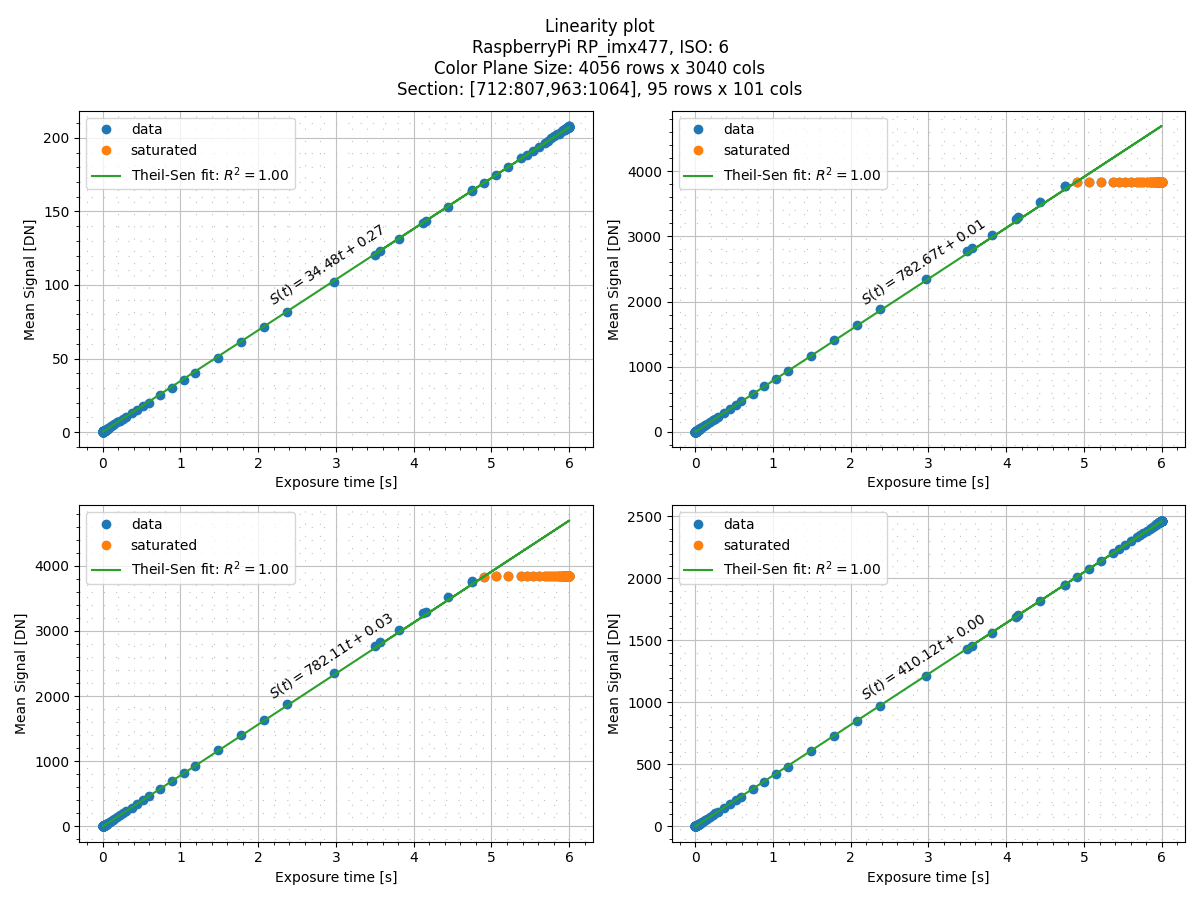
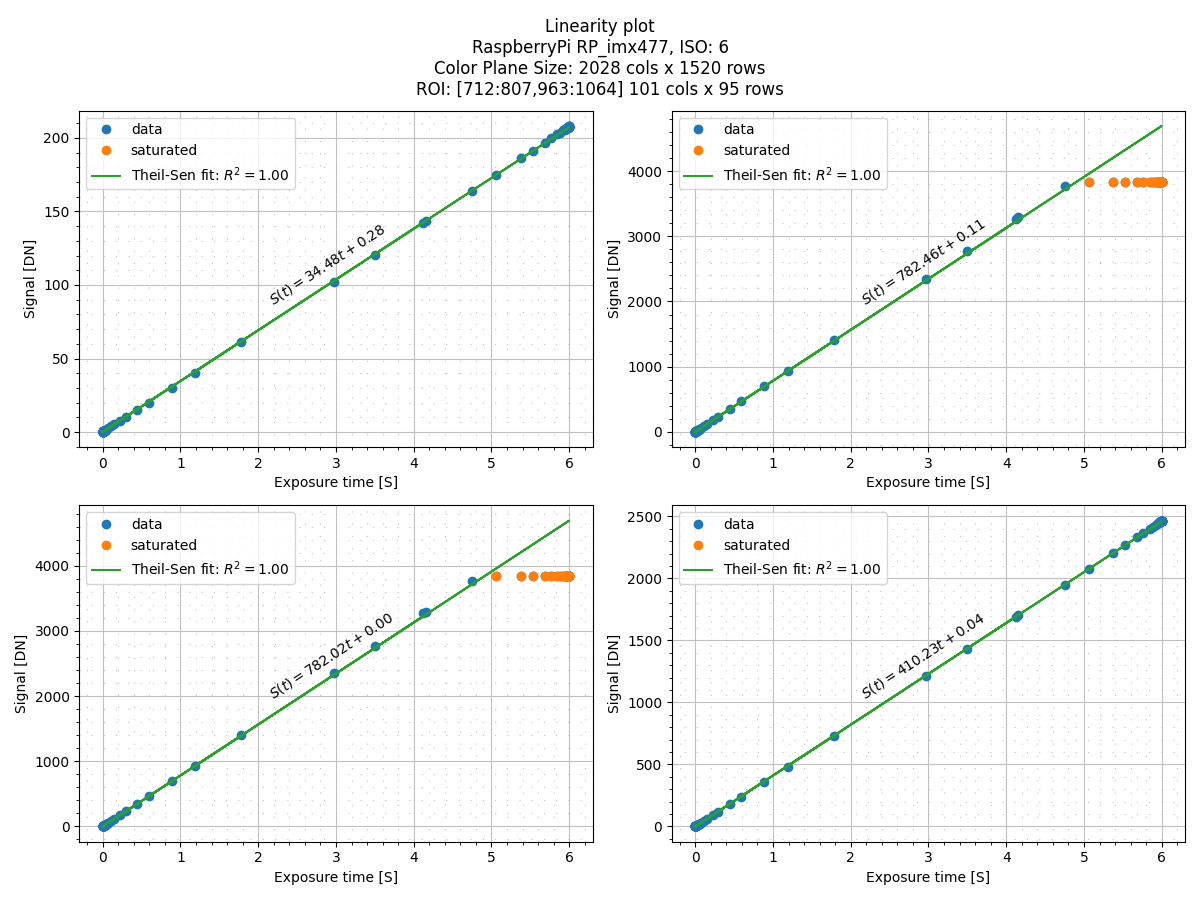
fixed linearity command

diff --git a/src/rawplot/linearity.py b/src/rawplot/linearity.py
@@ -28,15 +28,18 @@ from sklearn.linear_model import  TheilSenRegressor, LinearRegression
 
 from lica.cli import execute
 from lica.misc import file_paths
-from lica.validators import vdir, vfloat01, valid_channels
+from lica.validators import vdir, vfile, vfloat, vfloat01, valid_channels
 from lica.raw.loader import ImageLoaderFactory, SimulatedDarkImage, NormRoi
+from lica.raw.analyzer.image import ImageStatistics
 
 # ------------------------
 # Own modules and packages
 # ------------------------
 
 from ._version import __version__
-from .util.mpl.plot import plot_layout, axes_reshape, plot_linear_equation
+from .util.mpl.plot import mpl_main_plot_loop
+from .util.common import common_list_info, bias_from, make_plot_title_from
+
 # ----------------
 # Module constants
 # ----------------
@@ -59,40 +62,8 @@ def fit_estimator(estimator, exptime, signal, channel):
     predicted = estimator.predict(T)
     return score, estimator.coef_[0], estimator.intercept_
 
-
-# For single image in all channels at once
-# retuns 1D arrays, one row for each color channel
-def compute_signal_noise(image):
-    channels = image.channels()
-    section = image.load().astype(np.float32, copy=False) - np.array(image.black_levels()).reshape(len(channels), 1, 1)
-    exptime = image.exposure()
-    exptime = np.array([exptime for ch in channels])
-    signal = np.mean(section, axis=(1,2))
-    noise = np.std(section, axis=(1,2))
-    log.info("Image: %s signal: %s, exptime: %s", image.name(), signal, exptime)
-    return exptime, signal, noise
-
-# For an image list
-# returns 2D arrays [channel, datapoints ifor each channel]
-def compute_signal_noise_for(file_list, n_roi, channels):
-    signal_list = list()
-    noise_list = list()
-    exp_list =list()
-    factory =  ImageLoaderFactory()
-    for path in file_list:
-        image = factory.image_from(path, n_roi, channels) 
-        exptime, signal, noise = compute_signal_noise(image)
-        signal_list.append(signal)
-        noise_list.append(noise)
-        exp_list.append(exptime)
-    noise = np.array(noise_list).transpose()
-    signal = np.array(signal_list).transpose()
-    exptime = np.array(exp_list).transpose()
-    return exptime, signal, noise
-
-
 # The saturation analysis is made on the assupotion that the measured noise
-# should be dominated by shot noise, whose sdtdev = sqrt(signal)
+# should be dominated by shot noise (ignoring FPN here ...mmm),
 # So we compute the threshold noise / sqrt(signal)
 # and discard values below a certain threshold (0.5 seems a reasonable compromise)
 def saturation_analysis(exptime, signal, noise, channels, threshold=0.5):
@@ -130,7 +101,46 @@ def saturation_analysis(exptime, signal, noise, channels, threshold=0.5):
     return good_exptime_list, good_signal_list, sat_exptime_list, sat_signal_list
 
 
-def plot_linearity(axes, exptime, signal, good_exptime, good_signal, sat_exptime, sat_signal, channel):
+def signal_exptime_and_total_noise_from(file_list, n_roi, channels, bias, every=2):
+    file_list = file_list[::every]
+    signal_list = list()
+    noise_list = list()
+    exptime_list = list()
+    for path in file_list:
+        analyzer = ImageStatistics(path, n_roi, channels, bias)
+        analyzer.run()
+        signal = analyzer.mean()
+        signal_list.append(signal)
+        exptime = np.full_like(signal, analyzer.loader().exposure())
+        exptime_list.append(exptime)
+        noise = analyzer.std()
+        noise_list.append(noise)
+        log.info("\u03C3\u00b2(total) for image %s = %s", analyzer.name(), noise)
+    return np.stack(exptime_list, axis=-1), np.stack(signal_list, axis=-1), np.stack(noise_list, axis=-1)
+
+
+def plot_linear_equation(axes, xdata, ydata, slope, intercept, xlabel='x', ylabel='y'):
+    angle = math.atan(slope)*(180/math.pi)
+    x0 = np.min(xdata); x1 = np.max(xdata)
+    y0 = np.min(ydata); y1 = np.max(ydata)
+    x = x0 + 0.35*(x1-x0)
+    y = y0 + 0.45*(y1-y0)
+    text = f"${ylabel} = {slope:.2f}{xlabel}{intercept:+.2f}$"
+    axes.text(x, y, text,
+        rotation_mode='anchor',
+        rotation=angle,
+        transform_rotates_text=True,
+        ha='left', va='top'
+    )
+
+
+def plot_linearity(axes, i, channel, xlabel, ylabel, x,  **kargs):
+    exptime = x[i]
+    signal = kargs['signal'][i]
+    good_exptime = kargs['good_exptime'][i]
+    good_signal = kargs['good_signal'][i]
+    sat_exptime = kargs['sat_exptime'][i]
+    sat_signal = kargs['sat_signal'][i]
     estimator = TheilSenRegressor(random_state=42,  fit_intercept=True)
     score, slope, intercept = fit_estimator(estimator, good_exptime, good_signal, channel)
     fit_signal = estimator.predict(exptime.reshape(-1,1)) # For the whole range
@@ -139,8 +149,8 @@ def plot_linearity(axes, exptime, signal, good_exptime, good_signal, sat_exptime
     axes.plot(sat_exptime, sat_signal,  marker='o', linewidth=0, label="saturated")
     axes.plot(exptime, fit_signal, label=text)
     plot_linear_equation(axes, exptime, fit_signal, slope, intercept, xlabel='t', ylabel='S(t)')
-    axes.set_xlabel('Exposure time [s]')
-    axes.set_ylabel('Mean Signal [DN]')
+    axes.set_xlabel(xlabel)
+    axes.set_ylabel(ylabel)
     axes.grid(True,  which='major', color='silver', linestyle='solid')
     axes.grid(True,  which='minor', color='silver', linestyle=(0, (1, 10)))
     axes.minorticks_on()
@@ -150,36 +160,30 @@ def plot_linearity(axes, exptime, signal, good_exptime, good_signal, sat_exptime
 # AUXILIARY MAIN FUNCTION
 # -----------------------
 
-def linearity(args):
-    channels = valid_channels(args.channels)
-    log.info("Working with %d channels: %s", len(channels), channels)
-    n_roi = NormRoi(args.x0, args.y0, args.width, args.height)
-    log.info("Normalized ROI is %s", n_roi)
-    # Take the A files only by decimating by a  user specified 'every' factor
-    file_list = sorted(file_paths(args.input_dir, args.image_filter))[::args.every]
-    factory =  ImageLoaderFactory()
-    image0 = factory.image_from(file_list[0], n_roi, channels)
-    roi = image0.roi()
-    metadata = image0.metadata()      
-    exptime, signal, noise = compute_signal_noise_for(file_list, n_roi,  channels)
-    log.info("estimated signal & noise for %d points", exptime.shape[1])
-    good_exptime, good_signal, sat_exptime, sat_signal = saturation_analysis(exptime, signal, noise, channels, 0.5)
-    display_rows, display_cols = plot_layout(channels)
-    fig, axes = plt.subplots(nrows=display_rows, ncols=display_cols, figsize=(12, 9), layout='tight')
-    fig.suptitle(f"Linearity plot\n"
-            f"{metadata['maker']} {metadata['camera']}, ISO: {metadata['iso']}\n"
-            f"Color Plane Size: {metadata['width']} cols x {metadata['height']} rows\n"
-            f"ROI: {roi} {roi.width()} cols x {roi.height()} rows")
-    axes = axes_reshape(axes, channels)
-    for row in range(0,display_rows):
-        for col in range(0,display_cols):
-            i = 2*row+col
-            if len(channels) == 3 and row == 1 and col == 1: # Skip the empty slot in 2x2 layout with 3 items
-                axes[row][col].set_axis_off()
-                break
-            plot_linearity(axes[row][col], exptime[i], signal[i], good_exptime[i], good_signal[i], sat_exptime[i], sat_signal[i], channels[i])
-    plt.show()
 
+def linearity(args):
+    log.info(" === LINEARITY PLOT === ")
+    file_list, roi, n_roi, channels, metadata = common_list_info(args)
+    bias = bias_from(args)
+    exptime, signal, noise = signal_exptime_and_total_noise_from(file_list, n_roi, channels, bias)
+    log.info("estimated signal & noise for %s points", exptime.shape)
+    good_exptime, good_signal, sat_exptime, sat_signal = saturation_analysis(exptime, signal, noise, channels, 0.5)
+    title = make_plot_title_from("Linearity plot",metadata, roi)
+    mpl_main_plot_loop(
+        title    = title,
+        figsize  = (12, 9),
+        channels = channels,
+        plot_func = plot_linearity,
+        xlabel = "Exposure time [S]",
+        ylabel = "Signal [DN]",
+        x     = exptime,
+        # Optional arguments tpo be handled by the plotting function
+        signal = signal,
+        good_exptime = good_exptime,
+        good_signal  = good_signal,
+        sat_exptime  = sat_exptime,
+        sat_signal   = sat_signal
+    )
 
 # ===================================
 # MAIN ENTRY POINT SPECIFIC ARGUMENTS
@@ -196,6 +200,10 @@ def add_args(parser):
                     choices=('R', 'Gr', 'Gb', 'G', 'B'),
                     help='color plane to plot. G is the average of G1 & G2. (default: %(default)s)')
     parser.add_argument('--every', type=int, metavar='<N>', default=1, help='pick every n `file after sorting')
+    group0 = parser.add_mutually_exclusive_group(required=False)
+    group0.add_argument('-bl', '--bias-level', type=vfloat, default=None, help='Bias level, common for all channels (default: %(default)s)')
+    group0.add_argument('-bf', '--bias-file',  type=vfile, default=None, help='Bias image (3D FITS cube) (default: %(default)s)')
+
 
 # ================
 # MAIN ENTRY POINT
@@ -207,4 +215,4 @@ def main():
         name=__name__, 
         version=__version__,
         description="Plot sensor exposure linearity per channel"
-        )
+    )

diff --git a/src/rawplot/image.py b/src/rawplot/image.py
@@ -47,27 +47,20 @@ log = logging.getLogger(__name__)
 
 
 def plot_histo(axes, i, channel, xlabel, ylabel, x, *args, **kwargs):
-    title_list = list()
-    title_list.append( f"{channel}:")
-    decimate = 10
-    for key, val in kwargs.items():
-        if key == 'median':
-            title_list.append(f'median={val[i]:.2f}')
-            axes.axvline(x=val[i], linestyle='--', color='k', label="median")
-        elif key == 'mean':
-            title_list.append(fr'$\mu={val[i]:.2f}$')
-            axes.axvline(x=val[i], linestyle='--', color='r', label="mean")
-        elif key == 'stddev':
-             title_list.append(fr'$\sigma={val[i]:.2f}$')
-        elif key == 'decimate':
-            decimate = val
-    title = " ".join(title_list)
+    median = kwargs['median'][i]
+    mean = kwargs['mean'][i]
+    stddev = kwargs['stddev'][i]
+    decimate = kwargs.get('decimate', 10)
+    ylog = kwargs.get('ylog', False)
+    title = fr'{channel}: median={median:.2f}, $\mu={mean:.2f}, \sigma={stddev:.2f}$'
     axes.set_title(title)
     data = x.reshape(-1)[::decimate]
     if data.dtype  in (np.uint16, np.uint32,):
         bins=list(range(data.min(), data.max()+1))
     else:
         bins='auto'
+    if ylog:
+        axes.set_yscale('log', base=10)
     axes.hist(data, bins=bins, rwidth=0.9, align='left', label='hist')
     axes.set_xlabel(xlabel)
     axes.set_ylabel(ylabel)
@@ -79,16 +72,10 @@ def plot_histo(axes, i, channel, xlabel, ylabel, x, *args, **kwargs):
 
 
 def plot_image(axes, i, channel, roi, colormap, edgecolor, pixels, *args, **kwargs):
-    title_list = list()
-    title_list.append( f"{channel}:")
-    for key, val in kwargs.items():
-        if key == 'median':
-            title_list.append(f'median={val[i]:.2f}')
-        elif key == 'mean':
-            title_list.append(fr'$\mu={val[i]:.2f}$')
-        elif key == 'stddev':
-             title_list.append(fr'$\sigma={val[i]:.2f}$')
-    title = " ".join(title_list)
+    median = kwargs['median'][i]
+    mean = kwargs['mean'][i]
+    stddev = kwargs['stddev'][i]
+    title = fr'{channel}: median={median:.2f}, $\mu={mean:.2f}, \sigma={stddev:.2f}$'
     axes.set_title(title)
     im = axes.imshow(pixels, cmap=colormap)
     # Create a Rectangle patch
@@ -130,8 +117,8 @@ def image_histo(args):
         mean = aver,
         median = mdn,
         stddev = std,
+        ylog = args.y_log
     )
-
 
 
 def image_pixels(args):
@@ -210,6 +197,7 @@ def add_args(parser):
     group0 = parser_histo.add_mutually_exclusive_group(required=False)
     group0.add_argument('-bl', '--bias-level',  type=vfloat, default=None, help='Bias level, common for all channels (default: %(default)s)')
     group0.add_argument('-bf', '--bias-file',  type=vfile, default=None, help='Bias image (3D FITS cube) (default: %(default)s)')
+    parser_histo.add_argument('--y-log',  action='store_true', help='Logaritmic scale for pixel counts')
     parser_histo.add_argument('--sim-dark', type=float, default=None, help='Simulate dark frame with given dark current')
 
 # ================

diff --git a/src/rawplot/master.py b/src/rawplot/master.py
@@ -22,15 +22,12 @@ import functools
 # ---------------------
 
 import numpy as np
-import matplotlib.pyplot as plt
-import matplotlib.patches as patches
-from sklearn.linear_model import  TheilSenRegressor, LinearRegression
 from astropy.io import fits
 
 from lica.cli import execute
 from lica.misc import file_paths
 from lica.validators import vdir, vfile, vfloat01, valid_channels
-from lica.raw.loader import ImageLoaderFactory, NormRoi, CHANNELS
+from lica.raw.loader import ImageLoaderFactory, FULL_FRAME_NROI, CHANNELS
 
 
 # ------------------------
@@ -38,7 +35,6 @@ from lica.raw.loader import ImageLoaderFactory, NormRoi, CHANNELS
 # ------------------------
 
 from ._version import __version__
-from .util.mpl.plot import plot_layout, plot_cmap, plot_edge_color,  plot_image, plot_histo, axes_reshape
 
 # ----------------
 # Module constants
@@ -85,7 +81,7 @@ def output_path(output_dir, prefix, metadata, roi, tag):
 
 def master(args):
     channels = CHANNELS
-    n_roi = NormRoi(0,0,1,1)
+    n_roi = FULL_FRAME_NROI
     image_type = args.image_type
     log.info("Normalized ROI is %s", n_roi)
     if args.output_dir is None:

diff --git a/src/rawplot/ptc/__init__.py b/src/rawplot/ptc/__init__.py
@@ -51,7 +51,7 @@ DATA = [
     ["Chart 3", "shot noise vs. signal",                    "log rms DN vs. log DN"],
     ["Chart 4", "FPN vs. signal",                           "log rms DN vs. log DN"],
     ["Chart 5", "read, shot, FPN (total noise) vs. signal", "log rms $e^{-}$ vs. log $e^{-}$"],
-    ["Chart 6", "ead, shot noise vs. signal",               "log rms $e^{-}$ vs. log $e^{-}$"],
+    ["Chart 6", "read, shot noise vs. signal",              "log rms $e^{-}$ vs. log $e^{-}$"],
     ["Chart 7", "shot noise vs. signal",                    "log rms $e^{-}$ vs. log $e^{-}$"],
     ["Chart 8", "FPN vs. signal",                           "log rms $e^{-}$ vs. log $e^{-}$"],
 ]

diff --git a/src/rawplot/ptc/noise_charts.py b/src/rawplot/ptc/noise_charts.py
@@ -113,7 +113,7 @@ def noise_chart1(args):
         read_noise = read_noise
     )
     total_noise = np.sqrt(total_var)
-    shot_noise = np.sqrt(shot_noise)
+    shot_noise = np.sqrt(shot_var)
     fpn_noise = np.sqrt(fpn_var)
     read_noise = np.sqrt(read_noise_var) # Now, read_noise is a numpy array
     title = make_plot_title_from("Total Noise Sources vs. Signal",metadata, roi)

diff --git a/README.md b/README.md
@@ -133,7 +133,42 @@ rawplot-hv -i images/20240117/linearity/darkl_g1_001_0025005_a.jpg --start 3
 ```
 ![Raspberry Pi HQ HV Spectrogram](doc/images/hv.png)
 
+## Photon Transfer Charts (PTC)
+
+An (ongoing) series of PTC charts, based on the classic (Photon Transfer)[https://www.spiedigitallibrary.org/ebooks/PM/Photon-Transfer/eISBN-9780819478382/10.1117/3.725073#_=_] book have been included so far:
+
+|  CHART   |                Description               | Units                   |
+| :------: | :--------------------------------------- | :---------------------- |
+| Chart 1  | read, shot, FPN & total noise vs. signal | log2 rms DN vs. log2 DN |
+| Chart 2  | read + shot noise vs. signal             | log2 rms DN vs. log2 DN |
+| Chart 3  | shot noise vs. signal                    | log2 rms DN vs. log2 DN |
+| Chart 4  | FPN vs. signal                           | log2 rms DN vs. log2 DN |
+
+
+From the same dataset we used to determine the camera linearity, we generate PTC Chart #1, this time with a bigger ROI.
+For this technique to work, we require to have images taken in pairs at the same exposure time (i.e `(flatm_g1_047_0001450_a.jpg, 'flatm_g1_047_0001450_b.jpg')`.
+
+
+```bash
+rawplot-ptc --console chart1 -i images/20240117/linearity/ -f flat* -wi 1/5 -he 1/4 --channels Gr
+```
+
+If not specified in the command line, the read noise line is at 0 DN (not shown) so that we estimate its value from the total noise plot.
+
+After plot analysis, it can be experimentally determined that the read noise is about 1.25 DN
+At Signal level 19 DN approx. the shot noise equals the readout noise. At signal level 268 DN approx. the
+shot noise equals the Fixed Pattern Noise (FPN) (3 DN approx.)
+
+```bash
+rawplot-ptc --console chart1 -i images/20240117/linearity/ -f flat* -wi 1/5 -he 1/4 --channels Gr --read-noise 1.25
+```
+
+![Raspberry Pi HQ Camera PTC Chart plot](doc/images/ptc_noise_chart1.png)
+
+
 ## Signal to Noise Ratio plot
+
+(likely to be removed if expanding the PTC commands)
 
 This plot is also based on the blog posts [Determining Sensor IQ Metrics: RN, FWC, PRNU, DR, gain – 1](https://www.strollswithmydog.com/determining-sensor-iq-metrics-rn-fwc-prnu-gain/) and [Determining Sensor IQ Metrics: RN, FWC, PRNU, DR, gain – 2](https://www.strollswithmydog.com/determining-sensor-iq-metrics-rn-fwc-prnu-dr-gain-2/)
 
